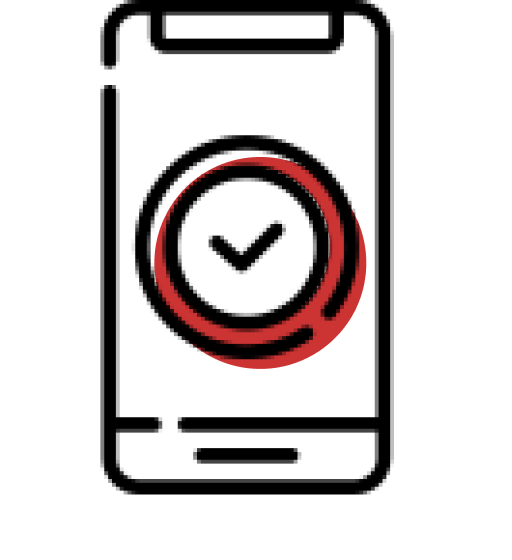
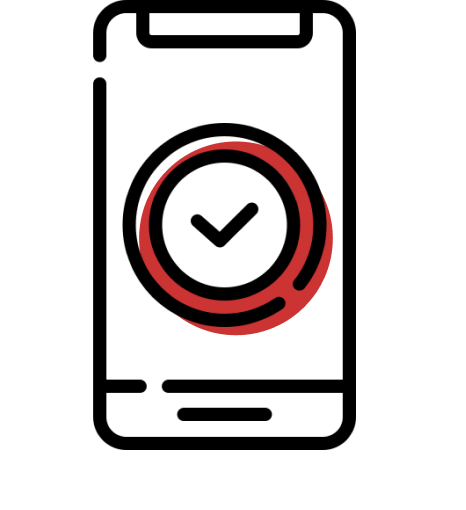
Updated image and added black bg

Changed region(s): [[0.1803, 0.0, 0.7811, 0.8824], [0.3906, 0.3824, 0.5708, 0.5]]

diff --git a/webapp/src/Onboarding/Onboarding.css b/webapp/src/Onboarding/Onboarding.css
@@ -1,5 +1,6 @@
 body {
     padding: 0;
+    background: black;
     margin: 0;
     font-family: Verdana;
 }
@@ -10,6 +11,7 @@ body {
 }
 
 .Cross {
+    display: none;
     position: absolute;
     top: 0;
     padding: 12px;
@@ -23,6 +25,7 @@ body {
 
 .Emptyspace {
     height: 16px;
+    background: #ffffff;
 }
 
 .BlackText {
@@ -31,7 +34,7 @@ body {
     font-style: normal;
     font-weight: normal;
     font-size: 20px;
-    margin: 0 auto;
+    margin: 0 auto 20px;
     display: block;
     text-align: center;
     height: 169px;
